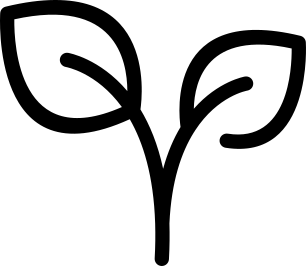
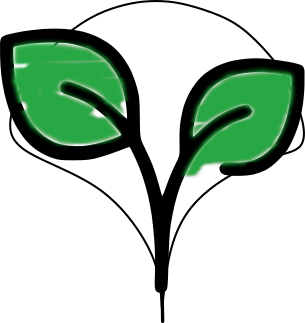
fix Hashtag push Enter, review GardenCreateForm, new pin image

diff --git a/my-app/src/components/GardenCreateForm.tsx b/my-app/src/components/GardenCreateForm.tsx
@@ -93,7 +93,9 @@ const CreateGardenForm = () => {
   return (
     <>
       <Card className="h-full max-w-screen px-8 pt-5 pb-10">
-        <h1 className="text-center text-4xl">{translations.gardenCreator}</h1>
+        <h1 className="mb-5 text-center text-4xl">
+          {translations.gardenCreator}
+        </h1>
 
         <form method="post" id="createGarden" className="flex flex-col">
           <TextInput
@@ -111,7 +113,7 @@ const CreateGardenForm = () => {
             placeholder={translations.giveaGardenDescription}
             rows={Number(rows)}
             cols={Number(cols)}
-            className="rounded-md border-1 pl-3"
+            className="mb-5 rounded-md border-1 pl-3"
           ></textarea>
 
           <HashtagInput
@@ -131,6 +133,7 @@ const CreateGardenForm = () => {
             min="1"
             max="500"
             step="1"
+            value={gardenLength}
             onChange={handleLengthChange}
             className={`bg-border mt-5 mr-5 mb-5 ml-5 h-2 cursor-cell appearance-none`}
           />
@@ -145,6 +148,7 @@ const CreateGardenForm = () => {
             min="1"
             max="500"
             step="1"
+            value={gardenWidth}
             onChange={handleWidthChange}
             className={`bg-border mt-5 mr-5 mb-5 ml-5 h-2 cursor-cell appearance-none`}
           />
@@ -157,7 +161,7 @@ const CreateGardenForm = () => {
           />
 
           <label htmlFor="gardenType">{translations.kindOfGarden}</label>
-          <select name="gardenType" className="rounded-md border-1">
+          <select name="gardenType" className="mb-5 rounded-md border-1">
             <option value="0">{translations.gardenType0}</option>
             <option value="1">{translations.gardenType1}</option>
             <option value="2">{translations.gardenType2}</option>
@@ -165,13 +169,13 @@ const CreateGardenForm = () => {
           </select>
 
           <label htmlFor="gardenPrivacy">{translations.privacySettings}</label>
-          <select name="gardenPrivacy" className="rounded-md border-1">
+          <select name="gardenPrivacy" className="mb-5 rounded-md border-1">
             <option value="0">{translations.privateGarden}</option>
             <option value="1">{translations.semiPrivateGarden}</option>
             <option value="2">{translations.publicGarden}</option>
           </select>
 
-          <div className="flex justify-between">
+          <div className="flex justify-center">
             <Button onClick={() => router.push('/garden-manager')}>
               {translations.back}
             </Button>

diff --git a/my-app/src/components/UI/LocationPicker.tsx b/my-app/src/components/UI/LocationPicker.tsx
@@ -4,6 +4,7 @@ import 'leaflet/dist/leaflet.css';
 import L from 'leaflet';
 import TextInput from './TextInput';
 import Button from './Button';
+import { useLanguage } from '@/app/contexts/LanguageProvider';
 
 interface LocationPickerProps {
   initialLat?: number;
@@ -28,6 +29,8 @@ const LocationPicker: React.FC<LocationPickerProps> = ({
   readOnly = false,
   multipleMarkers = [],
 }) => {
+  const { translations } = useLanguage();
+
   const [markerPosition, setMarkerPosition] = useState<{
     lat: number;
     lng: number;
@@ -79,7 +82,8 @@ const LocationPicker: React.FC<LocationPickerProps> = ({
 
   return (
     <div className={`flex flex-col ${markerPosition ? 'mb-0' : 'mb-5'}`}>
-      <div className="h-70 overflow-hidden">
+      <p>{translations.addGardenPosition}</p>
+      <div className="mb-2 h-70 overflow-hidden">
         <MapContainer
           center={
             markerPosition ||
@@ -106,23 +110,29 @@ const LocationPicker: React.FC<LocationPickerProps> = ({
       </div>
 
       {!readOnly && markerPosition && (
-        <div className="mb-auto flex flex-col items-center gap-2 md:flex-row">
-          <TextInput
-            type="text"
-            label="Latitude"
-            name="latitude"
-            readOnly
-            value={markerPosition.lat.toString()}
-          />
-          <TextInput
-            type="text"
-            label="Longitude"
-            name="longitude"
-            readOnly
-            value={markerPosition.lng.toString()}
-          />
-          <div>
-            <Button onClick={handleRemovePin}>Supprimer</Button>
+        <div className="flex flex-col gap-2 md:flex-row">
+          <div className="flex-1">
+            <TextInput
+              type="text"
+              label={translations.latitude}
+              name="latitude"
+              readOnly
+              value={markerPosition.lat.toString()}
+              className="mb-0!"
+            />
+          </div>
+          <div className="flex-1">
+            <TextInput
+              type="text"
+              label={translations.longitude}
+              name="longitude"
+              readOnly
+              value={markerPosition.lng.toString()}
+              className="mb-0!"
+            />
+          </div>
+          <div className="flex items-center justify-center">
+            <Button onClick={handleRemovePin}>{translations.deletePin}</Button>
           </div>
         </div>
       )}

diff --git a/my-app/src/components/HashtagInput.tsx b/my-app/src/components/HashtagInput.tsx
@@ -72,6 +72,12 @@ const HashtagInput: React.FC<HashtagInputProps> = ({
           value={inputValue}
           placeholder={placeHolder}
           error={error}
+          onKeyDown={(e) => {
+            if (e.key === 'Enter') {
+              e.preventDefault();
+              handleAddHashtag();
+            }
+          }}
         />
         {inputValue.trim() !== '' &&
           !hashtags.includes(`#${inputValue.trim()}`) && (

diff --git a/my-app/src/components/UI/TextInput.tsx b/my-app/src/components/UI/TextInput.tsx
@@ -21,7 +21,7 @@ const TextInput: FC<TextInputProps> = ({
   const { translations } = useLanguage();
 
   return (
-    <div className={`mb-5 ${className}`}>
+    <div className={`${className} mb-5`}>
       {label && (
         <label htmlFor={props.id || props.name} className="mr-3">
           {label}:

diff --git a/RELEASENOTE.md b/RELEASENOTE.md
@@ -4,7 +4,11 @@
 
 | Date  | Collaborateur(s) | Tâche | Remarques |
 |--------|-----------------|-------|-----------|
+| 09/04/25 | @Emmanuel | Ajout des traductions pour la page de création de terrain
+||| Mise en place d'une nouvelle épingle pour localiser les terrains
+||| Correction du bug dans le composant HashTag avec la touche Enter 
 | 08/04/25 | @Emmanuel | L'ajout d'un user fonctionne via RegisterForm | 
+||| Ajout d'une map avec localisation du terrain pour la création d'un terrain
 | 07/04/25 | @Emmanuel | Travail sur le nouvelle version de RegisterForm
 | 06/04/25 | @Emmanuel | Ajout de la prop disable et title au composant Button
 ||| Création d'un bucket Supabase pour le stockage des avatars
